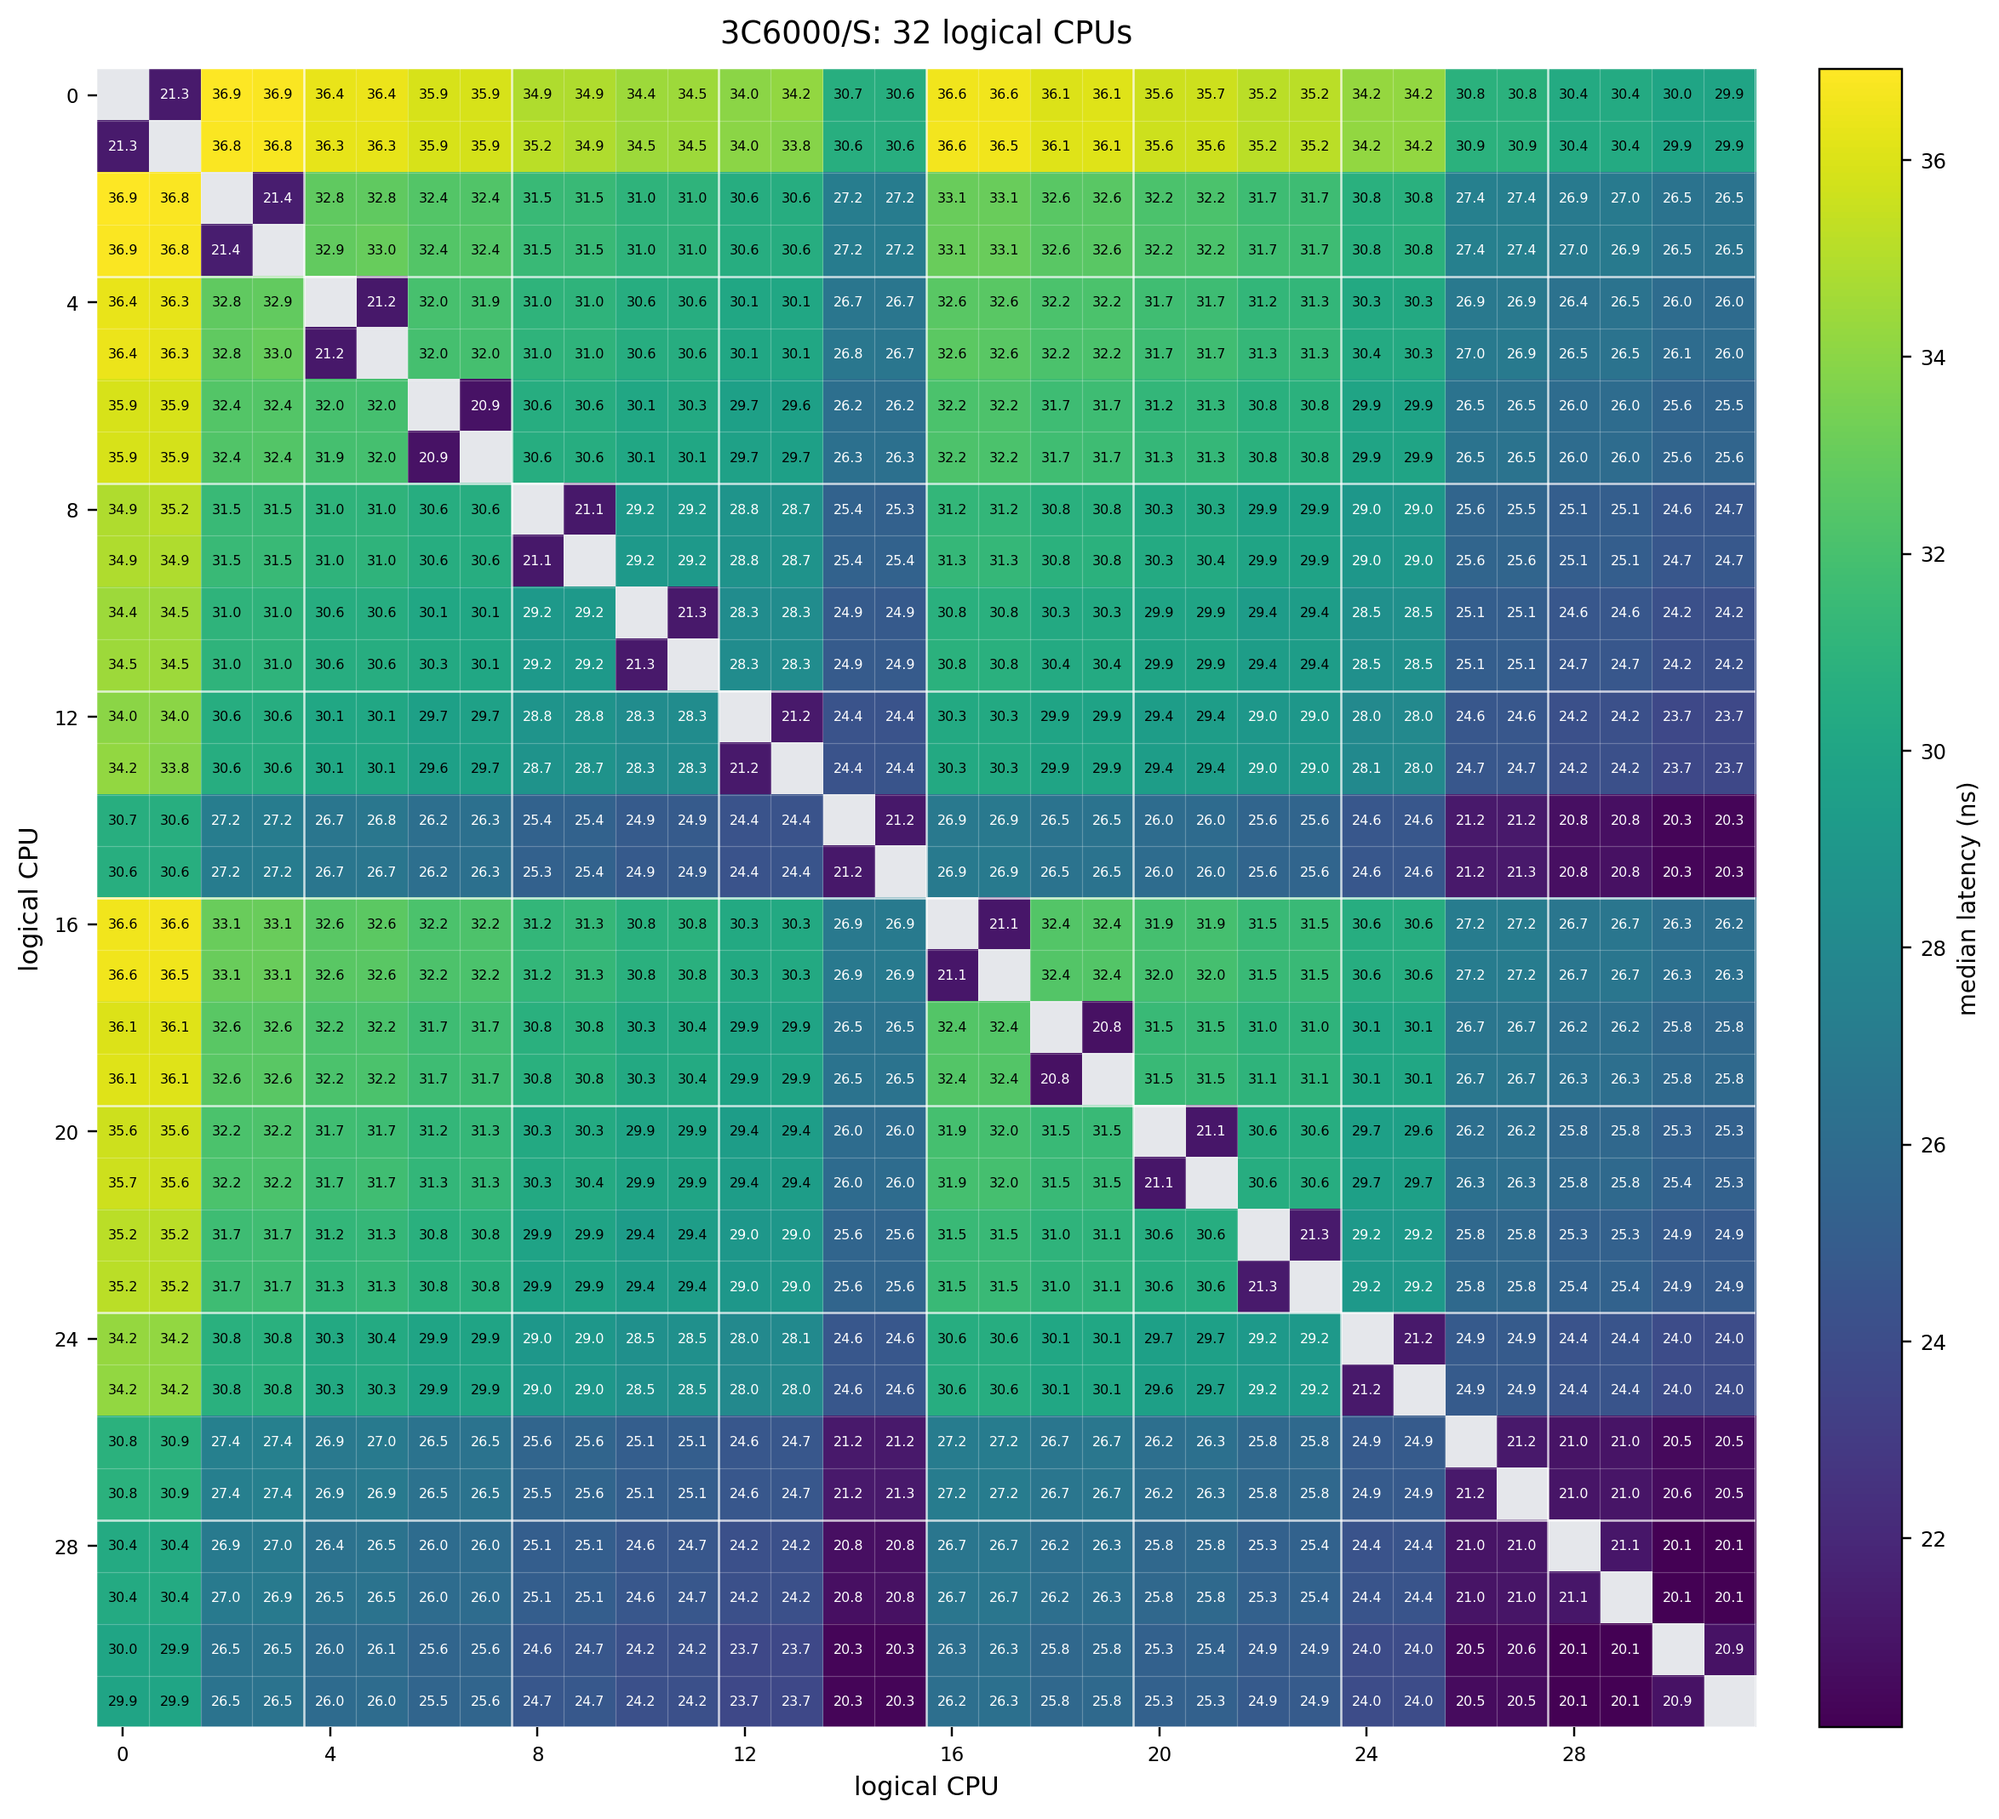
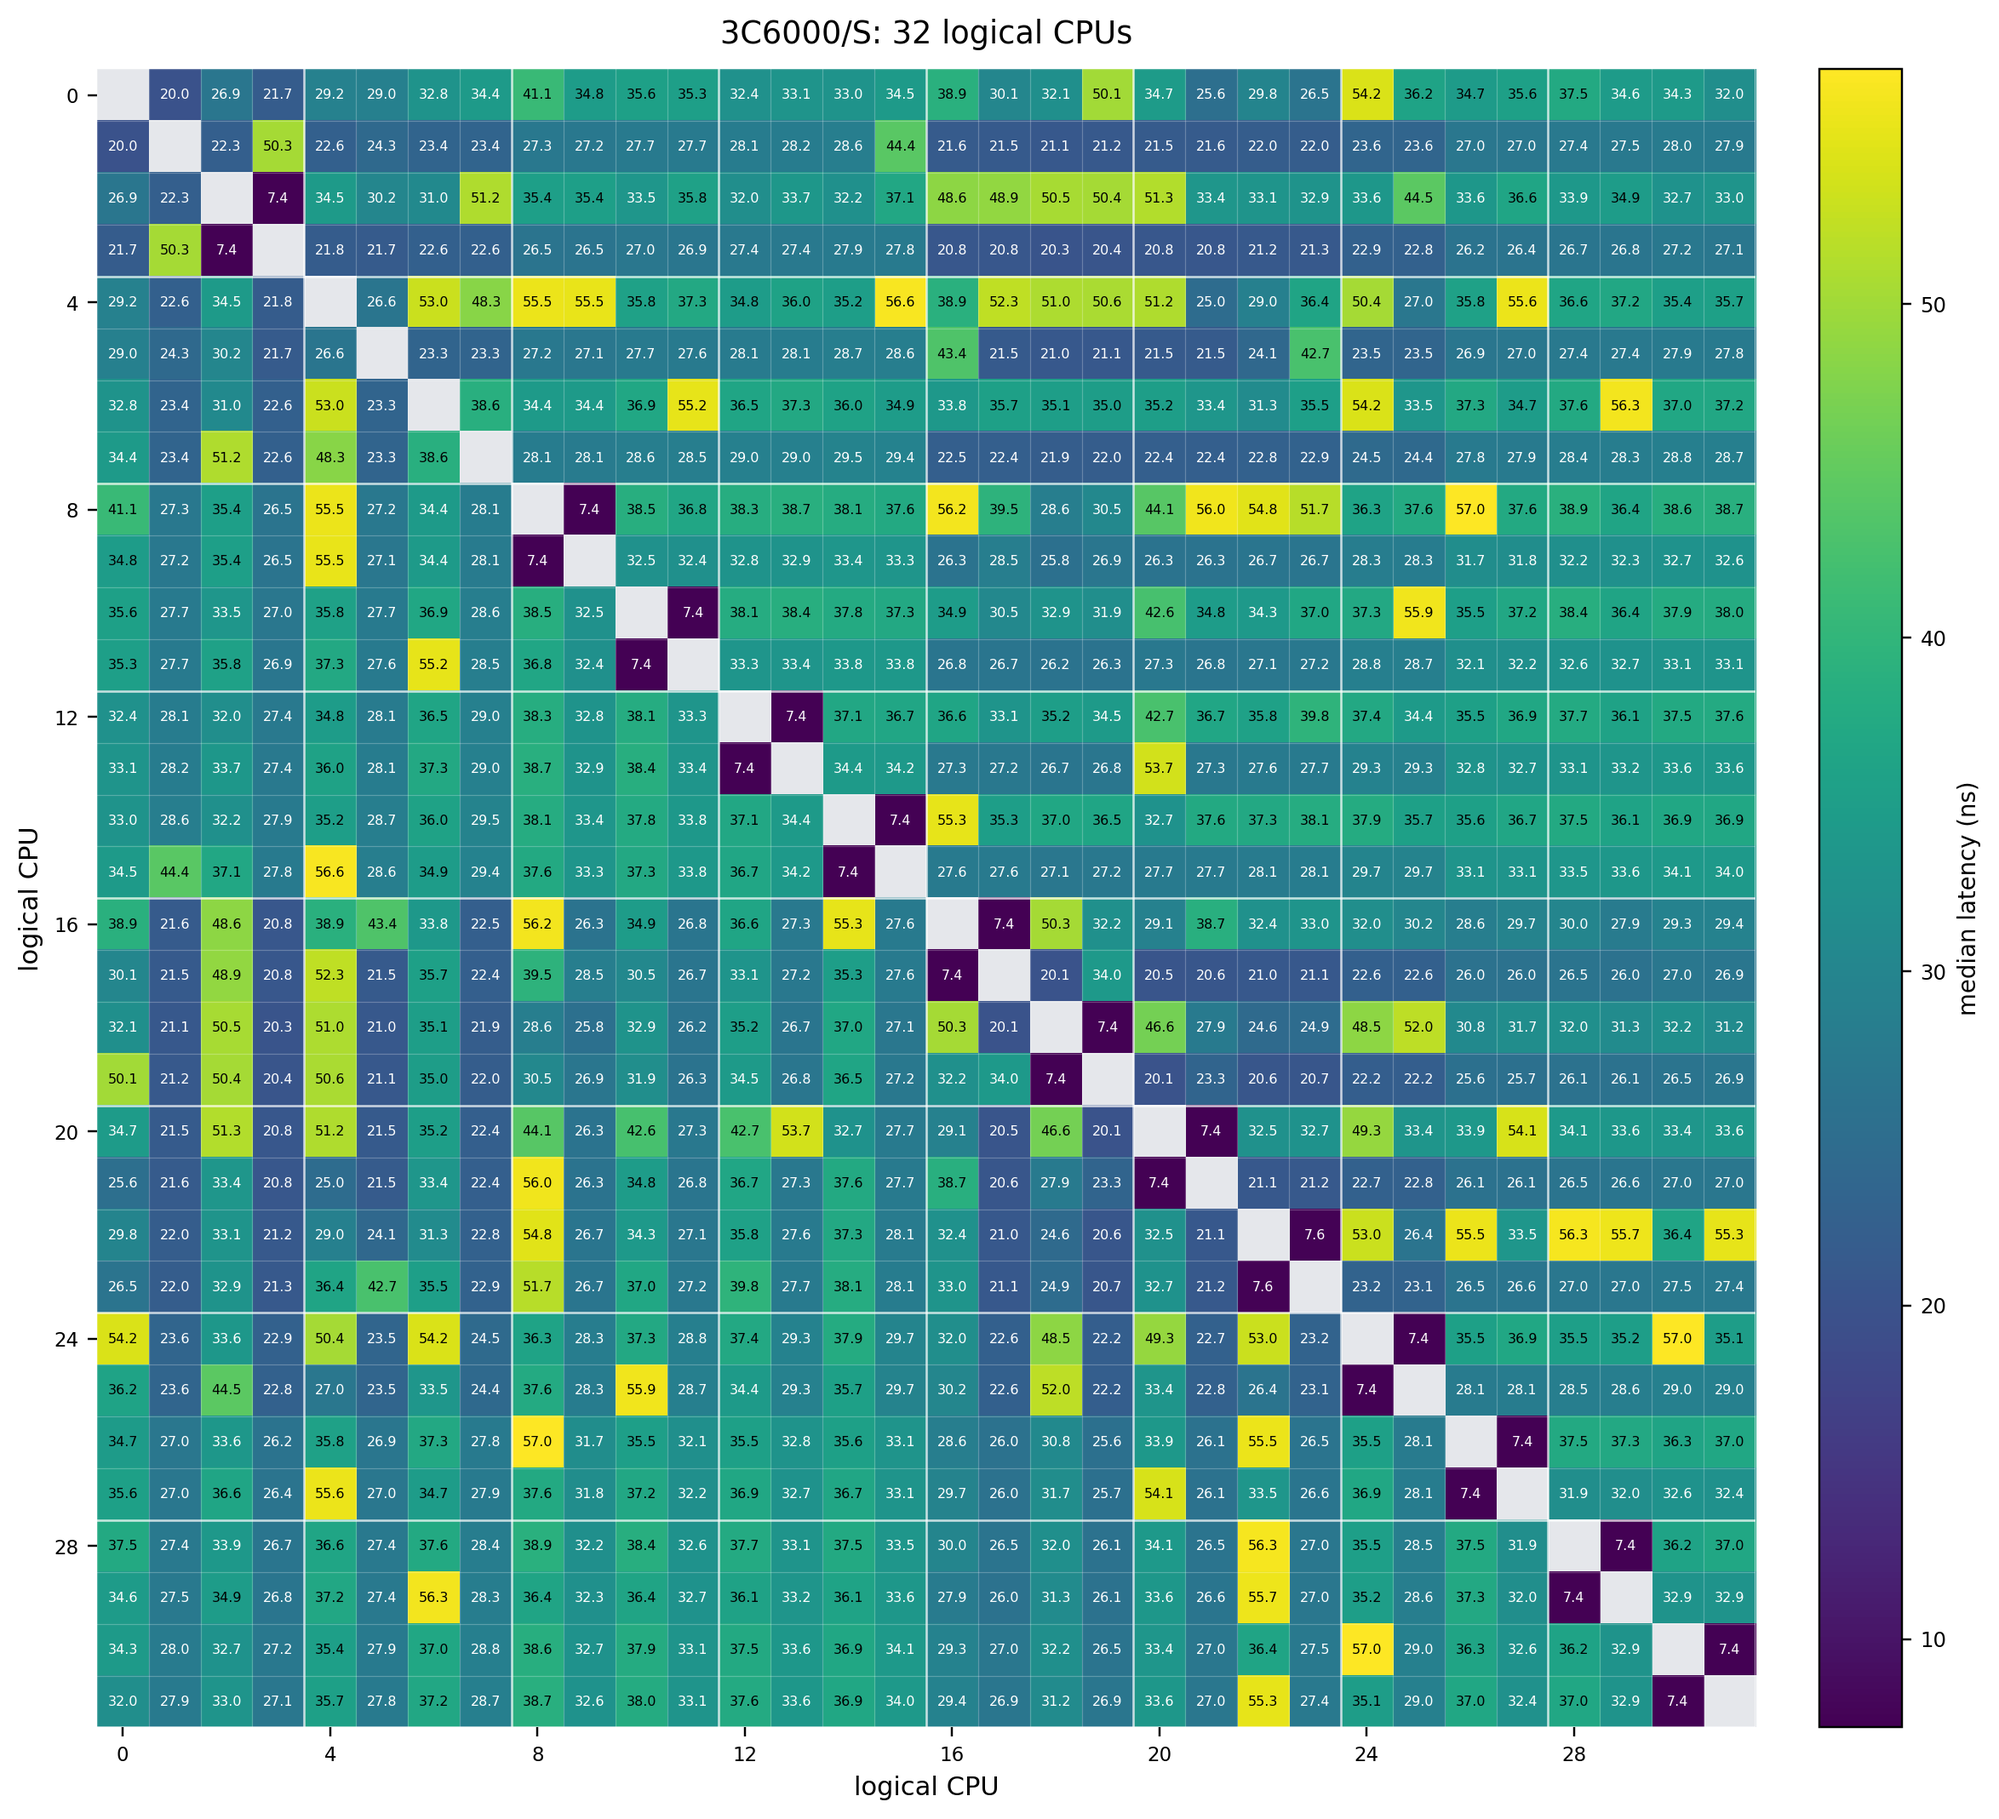
Improve docs

diff --git a/docs/microarchitecture/core-to-core.md b/docs/microarchitecture/core-to-core.md
@@ -15,10 +15,10 @@ diagonal is omitted. The raw matrices are in
 | Part | Logical CPUs | Min | Median | Max |
 | --- | --- | --- | --- | --- |
 | 3C5000 | 16 | 29.2 | 43.8 | 55.5 |
-| 3C6000/S | 32 | 20.1 | 29.3 | 36.9 |
+| 3C6000/S | 32 | 7.4 | 32.0 | 57.0 |
 
-All values are nanoseconds. For the 3C6000/S, the table includes SMT sibling
-pairs; excluding them changes the median only slightly, to 29.5 ns.
+All values are nanoseconds. The 3C6000/S table includes SMT sibling pairs;
+excluding the 16 sibling pairs gives a cross-core median of 32.2 ns.
 
 ## 3C5000
 
@@ -38,24 +38,22 @@ can cost twice as much depending on which core pair is involved.
 
 [![Core-to-core latency matrix for the 3C6000/S](../assets/images/core-to-core-3c6000s.png)](../assets/images/core-to-core-3c6000s.png)
 
-The newer part exposes 32 logical CPUs and spans 20 to 37 ns, with a median of
-29 ns. It is both faster and more uniform than the 3C5000: the median is about a
-third lower, and the worst pair is below the 3C5000 median. The 32 by 32 grid is
-dense, so open the image at full size to read the values cell by cell.
+The physical machine exposes 32 logical CPUs and spans 7 to 57 ns, with a
+median of 32 ns. The low end, around 7.4 ns, is SMT sibling traffic, not
+core-to-core communication. The rest of the matrix runs from about 20 to 57 ns.
+This 5000-iteration run is much tighter than the previous physical run, which
+spanned 7 to 112 ns with a median of 42 ns.
 
-The matrix is not flat: logical CPUs 14 to 15 and 26 to 31 are the fastest to
-reach, while 0 to 1 are the slowest, and the four 8-thread blocks have distinct
-latency levels. All 32 logical CPUs are 16 cores on one die, in the same NUMA
-node, and they share 32 MB of L3, so the blocks are not NUMA or L3 partition
-boundaries. The CSV is a core-by-core matrix, but it does not say which cores
-share a cluster, so the page describes the blocks without naming one.
+The matrix is not uniform, and the 32 by 32 grid is dense, so open the image at
+full size to read the values cell by cell. The CSV is a core-by-core matrix, but
+it does not say which cores share a cluster or a NUMA node, so the page does not
+assign the high-latency pairs to a particular hardware boundary.
 
-The 3C6000/S has SMT, so its 32 logical CPUs are 16 cores with two threads each:
-0 and 1 are siblings, 2 and 3 are siblings, and so on. The 16 sibling pairs all
-measure 20.8 to 21.4 ns, and they are same-core transfers rather than
-core-to-core hops. Excluding them, the median is 29.5 ns. Most cross-core pairs
-are 23 to 37 ns, but a small group also reaches 20 to 22 ns, so a low cell is
-not by itself proof of SMT.
+The 3C6000/S has SMT: 0 and 1 are siblings, 2 and 3 are siblings, and so on.
+Most of the 16 sibling pairs measure 7.4 to 7.6 ns, but 0-1, 4-5, and 6-7
+measure 20 to 39 ns. Those three look like measurement outliers rather than a
+different sibling mapping. Excluding all sibling pairs, the cross-core median
+is 32.2 ns.
 
 ## What this means for software
 
